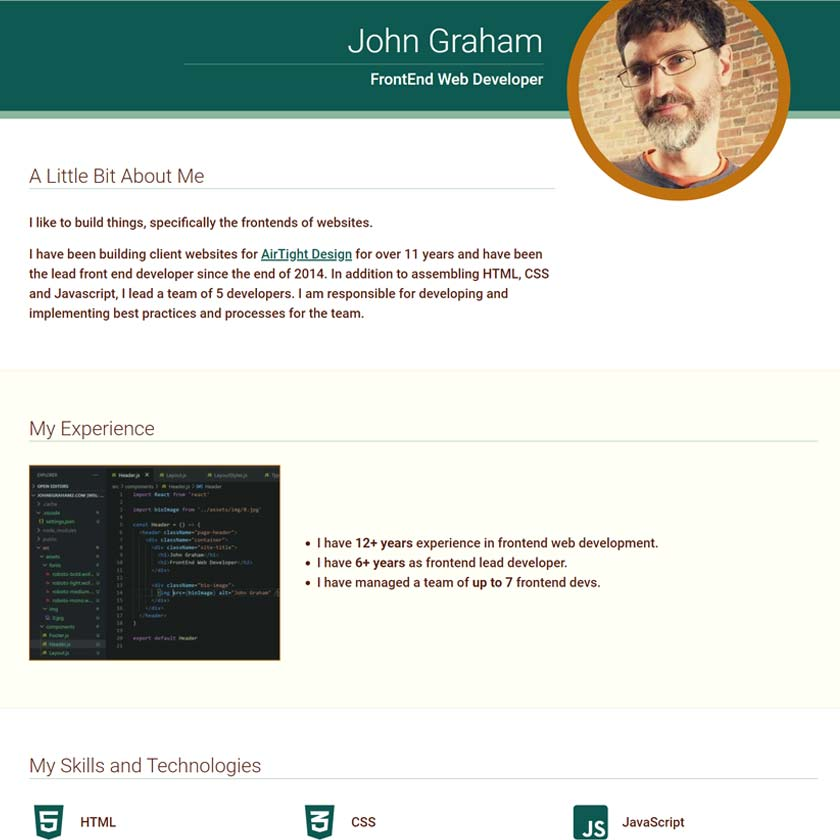
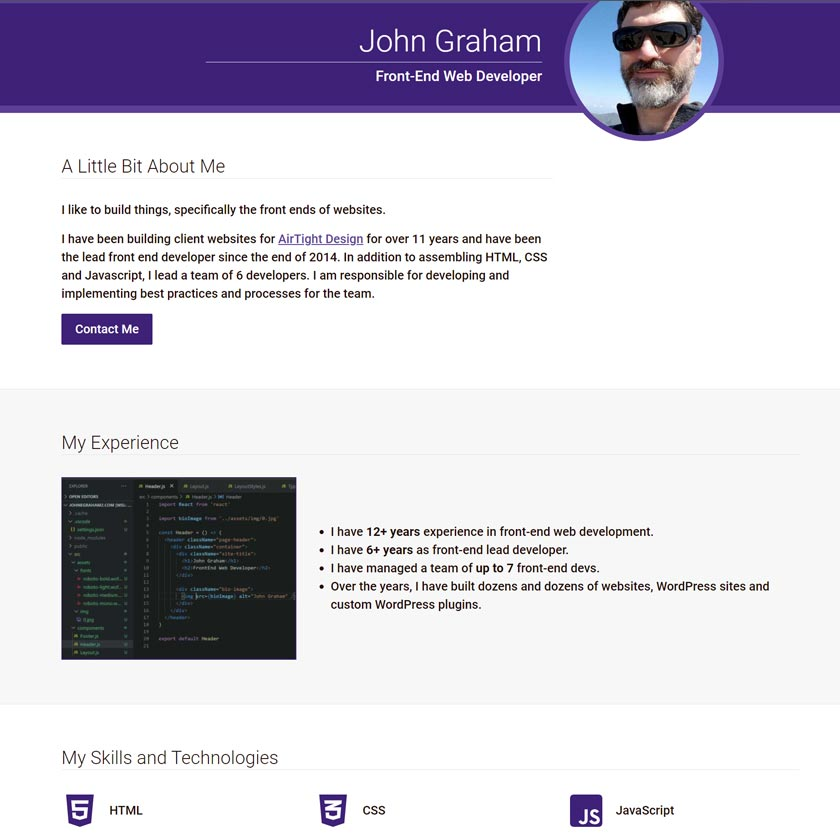
updated colors

diff --git a/src/pages/index.js b/src/pages/index.js
@@ -44,7 +44,7 @@ const IndexPage = ({ data }) => {
             <h2>A Little Bit About Me</h2>
 
             <p>
-              I like to build things, specifically the frontends of websites.
+              I like to build things, specifically the front ends of websites.
             </p>
 
             <p>
@@ -58,7 +58,7 @@ const IndexPage = ({ data }) => {
               </a>{' '}
               for over 11 years and have been the lead front end developer since
               the end of 2014. In addition to assembling HTML, CSS and
-              Javascript, I lead a team of 5 developers. I am responsible for
+              Javascript, I lead a team of 6 developers. I am responsible for
               developing and implementing best practices and processes for the
               team.
             </p>
@@ -86,14 +86,14 @@ const IndexPage = ({ data }) => {
           <div className="flex-col flex-col-8 flex-col-mobile-full">
             <ul>
               <li>
-                I have <strong>12+ years</strong> experience in frontend web
+                I have <strong>12+ years</strong> experience in front-end web
                 development.
               </li>
               <li>
-                I have <strong>6+ years</strong> as frontend lead developer.
+                I have <strong>6+ years</strong> as front-end lead developer.
               </li>
               <li>
-                I have managed a team of <strong>up to 7</strong> frontend devs.
+                I have managed a team of <strong>up to 7</strong> front-end devs.
               </li>
               <li>
                 Over the years, I have built dozens and dozens of websites,
@@ -139,7 +139,7 @@ const IndexPage = ({ data }) => {
       </ContentSection>
 
       <ContentSection>
-        <h2>FrontEnd Web Development Projects</h2>
+        <h2>Front-End Web Development Projects</h2>
 
         <ul className="project-list">
           <li className="project-list-project">
@@ -251,7 +251,7 @@ const IndexPage = ({ data }) => {
               <div className="project-list-description">
                 This Vue.js app loads and displays state data from an API. It
                 presents state data based on the user's ineraction with an SVG
-                map. I build this entire app.
+                map. I build this entire (m)app.
               </div>
 
               <div className="project-list-note">*for AirTight Design</div>

diff --git a/src/styles/ContentSectionStyles.js b/src/styles/ContentSectionStyles.js
@@ -4,23 +4,23 @@ const ContentSectionStyles = styled.section`
   padding: var(--gutter-double) 0;
 
   &:nth-child(even) {
-    background: var(--lightyellow);
-    color: var(--brown);
-    border-top: 1px solid var(--yellow);
-    border-bottom: 1px solid var(--yellow);
+    background: var(--verylightgray);
+    color: var(--black);
+    border-top: 1px solid var(--lightgray);
+    border-bottom: 1px solid var(--lightgray);
   }
 
   h1,
   h2,
   h3 {
-    border-bottom: 1px solid var(--lightgreen);
+    border-bottom: 1px solid var(--lightgray);
     padding-bottom: 4px;
     margin-bottom: var(--gutter);
   }
 
   .content-image {
     width: 100%;
-    background: var(--darkorange);
+    background: var(--purple);
     padding: 1px;
 
     @media (max-width: 767px) {
@@ -59,16 +59,19 @@ const ContentSectionStyles = styled.section`
         display: block;
         width: 100%;
         height: 100%;
-        background: var(--verylightgreen);
-        border: 1px solid var(--lightgreen);
+        background: var(--white);
+        border: 1px solid var(--lightgray);
+        box-shadow: 1px 1px 2px 0 rgba(0, 0, 0, .1);
         padding: var(--gutter);
         text-decoration: none;
+        color: var(--black);
       }
     }
 
     &-image {
       display: block;
       max-width: 100%;
+      border: 1px solid var(--lightgray);
     }
 
     &-title {

diff --git a/src/styles/PageHeaderStyles.js b/src/styles/PageHeaderStyles.js
@@ -2,10 +2,10 @@ import styled from 'styled-components'
 
 const PageHeaderStyles = styled.header`
   padding: var(--gutter) 0;
-  background: var(--green);
-  color: var(--lightyellow);
-  border-top: 0.4rem solid var(--lightgreen);
-  border-bottom: 1.2rem solid var(--lightgreen);
+  background: var(--purple);
+  color: var(--white);
+  border-top: 0.4rem solid var(--medpurple);
+  border-bottom: 1.2rem solid var(--medpurple);
 
   .site-title {
     font-size: 5rem;
@@ -16,7 +16,7 @@ const PageHeaderStyles = styled.header`
     font-weight: 500;
     margin-top: 1rem;
     padding-top: 1rem;
-    border-top: 1px solid var(--lightgreen);
+    border-top: 1px solid var(--white);
     width: 70%;
     margin-left: 30%;
 
@@ -29,8 +29,8 @@ const PageHeaderStyles = styled.header`
   .bio-image {
     transform: translateY(-7.2rem);
     border-radius: 50%;
-    border: var(--gutter-half) solid var(--orange);
-    max-width: 340px;
+    border: var(--gutter-quarter) solid var(--medpurple);
+    max-width: 260px;
     margin-bottom: -100%;
 
     @media (max-width: 767px) {

diff --git a/src/styles/ContactPanelStyles.js b/src/styles/ContactPanelStyles.js
@@ -48,8 +48,8 @@ const ContactPanelStyles = styled.div`
     padding: 0.6rem;
     margin-top: 0.6rem;
     font-size: 2rem;
-    border: 1px solid var(--lightgreen);
-    color: var(--orange);
+    border: 1px solid var(--lightgray);
+    color: var(--purple);
 
     &.textarea {
       resize: none;
@@ -59,11 +59,12 @@ const ContactPanelStyles = styled.div`
     &.checkbox {
       width: auto;
       margin-right: 1.8rem;
+      transform: translateY(-2px);
     }
 
     &:focus {
       outline: none;
-      border-color: var(--green);
+      border-color: var(--medpurple);
     }
   }
 
@@ -75,7 +76,7 @@ const ContactPanelStyles = styled.div`
     right: 0;
     font-size: 3.2rem;
     padding: var(--gutter-half);
-    color: var(--lightgreen);
+    color: var(--medpurple);
     cursor: pointer;
 
     &:focus,

diff --git a/src/styles/ButtonStyles.js b/src/styles/ButtonStyles.js
@@ -1,9 +1,9 @@
 import styled from 'styled-components'
 
 const ButtonStyles = styled.button`
-  background: var(--green);
+  background: var(--purple);
   color: var(--white);
-  border: 0.45rem solid var(--orange);
+  border: 0.45rem solid var(--purple);
   display: inline-block;
   padding: 0.9rem 1.8rem;
   font-size: 2rem;
@@ -11,9 +11,9 @@ const ButtonStyles = styled.button`
   cursor: pointer;
 
   &:hover {
-    background: var(--verylightgreen);
-    color: var(--green);
-    border-color: var(--lightgreen);
+    background: var(--medpurple);
+    color: var(--white);
+    border-color: var(--purple);
   }
 `
 

diff --git a/src/styles/GlobalStyles.js b/src/styles/GlobalStyles.js
@@ -13,11 +13,16 @@ const GlobalStyles = createGlobalStyle`
     --green: #0E5952;
     --lightgreen: #89B69D;
     --verylightgreen: #e6f1eb;
+    --lightgray: #e3e3e3;
+    --verylightgray: #f7f7f7;
+    --purple: #3e2178;
+    --medpurple: #5c3f98; 
 
     // layout
     --gutter: 3.6rem;
     --gutter-double: 7.2rem;
     --gutter-half: 1.8rem;
+    --gutter-quarter: 0.9rem;
     --gutter-neg: -3.6rem;
     --gutter-half-neg: -1.8rem;
   }
@@ -31,7 +36,7 @@ const GlobalStyles = createGlobalStyle`
   }
 
   body {
-    background var(--white);
+    background: var(--white);
   }
 `
 

diff --git a/src/components/Header.js b/src/components/Header.js
@@ -10,7 +10,7 @@ const Header = ({ images }) => (
         <div className="flex-col flex-col-8 flex-col-mobile-full">
           <div className="text-right text-center-mobile">
             <h1 className="site-title">John Graham</h1>
-            <h2 className="site-subtitle">FrontEnd Web Developer</h2>
+            <h2 className="site-subtitle">Front-End Web Developer</h2>
           </div>
         </div>
 

diff --git a/src/styles/PageFooterStyles.js b/src/styles/PageFooterStyles.js
@@ -2,8 +2,8 @@ import styled from 'styled-components'
 
 const PageFooterStyles = styled.footer`
   padding: var(--gutter-half) 0;
-  background: var(--lightgreen);
-  color: var(--black);
+  background: var(--purple);
+  color: var(--white);
 
   @media (max-width: 767px) {
     padding: var(--gutter) 0;

diff --git a/src/components/Footer.js b/src/components/Footer.js
@@ -12,7 +12,7 @@ const Footer = () => (
           </div>
         </div>
         <div className="flex-col flex-col-6 flex-col-mobile-full text-right text-center-mobile">
-          <SocialLinks />
+          <SocialLinks className="white" />
         </div>
       </div>
     </div>

diff --git a/src/styles/SkillListStyles.js b/src/styles/SkillListStyles.js
@@ -20,7 +20,7 @@ const SkillListStyles = createGlobalStyle`
     }
 
     &-icon {
-      color: var(--green);
+      color: var(--purple);
       font-size: 6rem;
       margin-right: var(--gutter-half);
     }

diff --git a/src/styles/SocialLinksStyles.js b/src/styles/SocialLinksStyles.js
@@ -19,6 +19,10 @@ const SocialLinksStyles = styled.div`
     }
   }
 
+  &.white .social-link {
+    color: var(--white);
+  }
+
   &.spread {
     display: flex;
     justify-content: center;

diff --git a/src/styles/Typography.js b/src/styles/Typography.js
@@ -101,7 +101,7 @@ const Typography = createGlobalStyle`
 
   
   a {
-    color: var(--green);
+    color: var(--medpurple);
     text-decoration: underline;
   }
 
